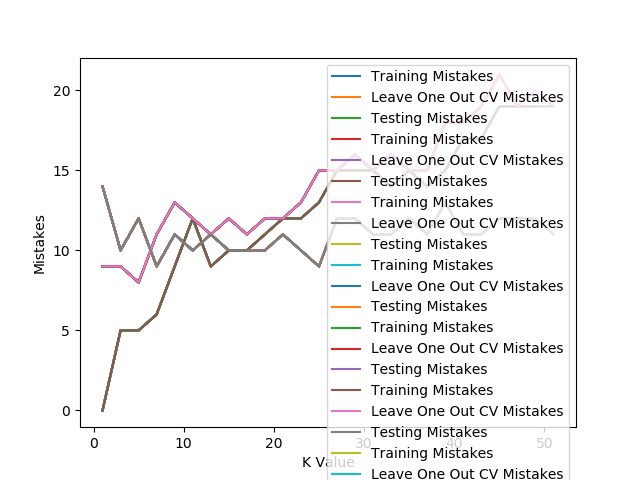
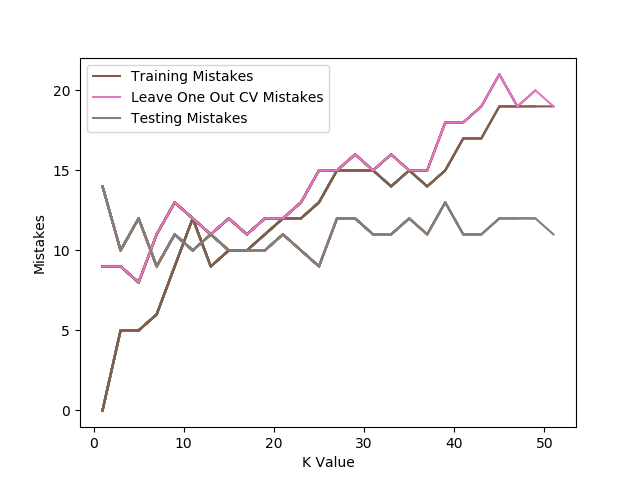
Tweaks

Changed region(s): [[0.125, 0.125, 0.9062, 1.0], [0.5, 0.5938, 0.5625, 0.6875], [0.8438, 0.9062, 0.875, 0.9375]]

diff --git a/Assignment Two/main.py b/Assignment Two/main.py
@@ -2,6 +2,7 @@ import sys
 import time
 import numpy as np
 import matplotlib as mpl
+from collections import OrderedDict
 mpl.use('Agg') 
 import matplotlib.pyplot as plt
 import heapq
@@ -117,8 +118,10 @@ def run_knn(training_data,testing_data):
 		plt.plot(ks, tst_err, label='Testing Mistakes')
 		plt.xlabel('K Value')
 		plt.ylabel('Mistakes')
-		#plt.legend()
-		plt.savefig('kerrorsnl')
+		handles, labels = plt.gca().get_legend_handles_labels()
+		by_label = OrderedDict(zip(labels, handles))
+		plt.legend(by_label.values(), by_label.keys())
+		plt.savefig('kerrors')
 		
 		# print "training error count:",train_error_count,"/",len(training_data),"=",float(train_error_count*100)/float(len(training_data)),"%"	      
 		# print "testing error count:",test_error_count,"/",len(testing_data),"=",float(test_error_count*100)/float(len(testing_data)),"%"	      
